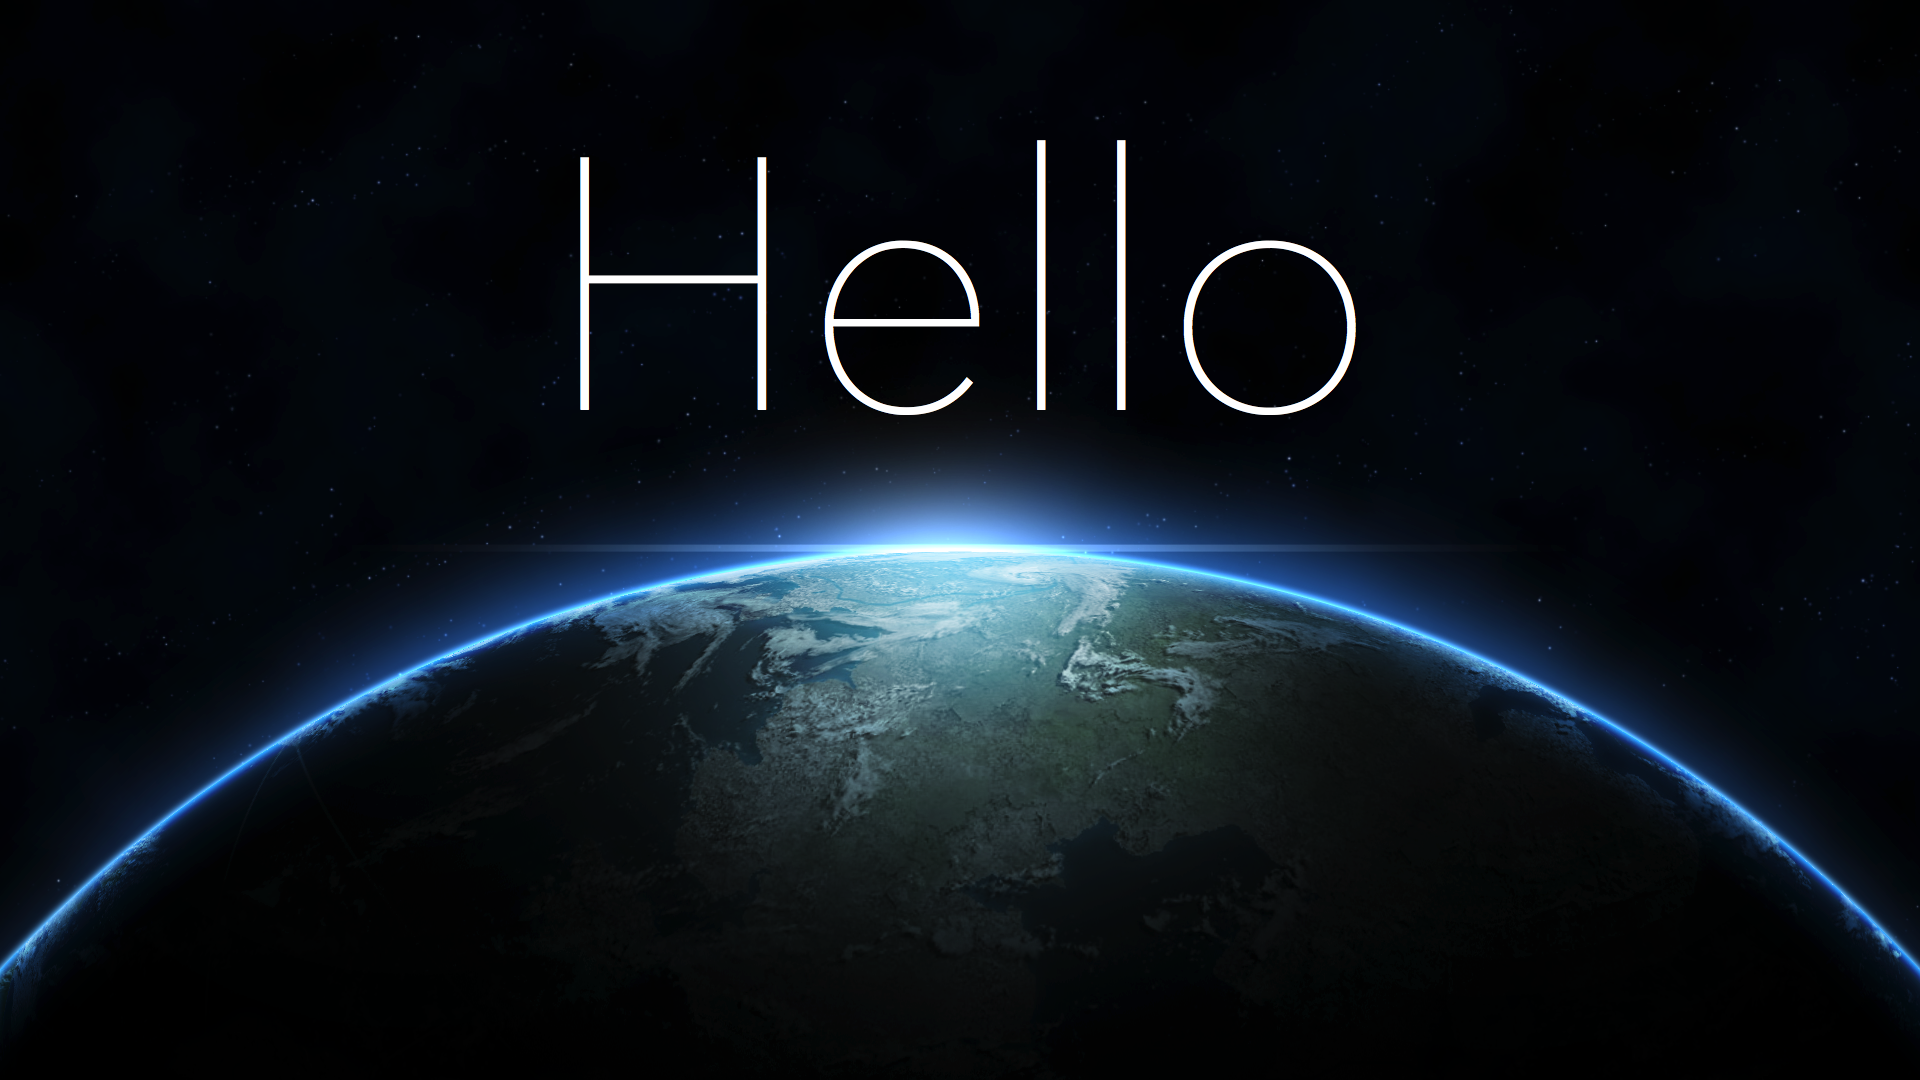
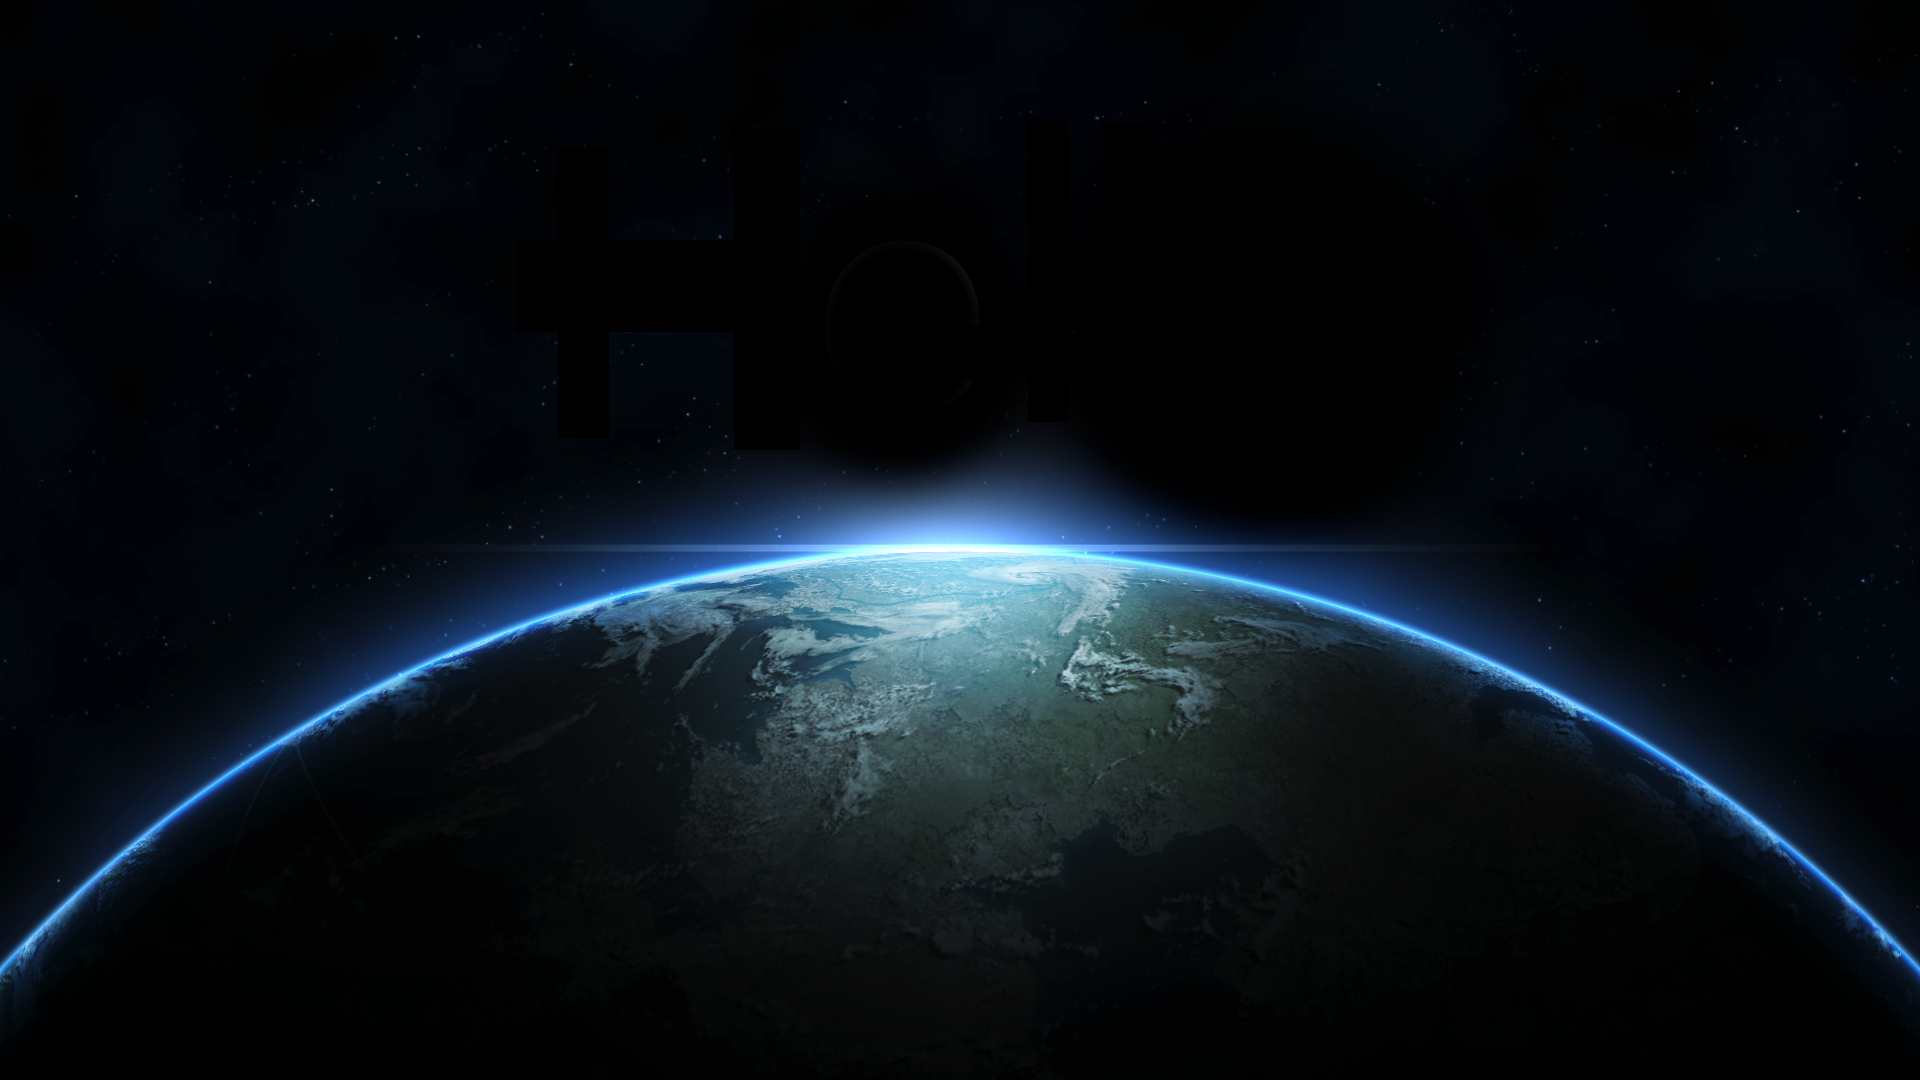
ok. una altra proposta

diff --git a/pagines/holamon.html b/pagines/holamon.html
@@ -1,19 +1,32 @@
 <!DOCTYPE html>
 <html lang="charset">
+
 <head>
     <meta charset="UTF-8">
     <meta name="viewport" content="width=device-width, initial-scale=1.0">
     <title>Hola Món</title>
+    <style>
+        header,
+        footer {
+            color: white;
+            text-align: left;
+        }
+
+        h1,
+        p,
+        a {
+            color: white;
+            text-align: center;
+        }
+    </style>
 </head>
-<body>
+
+<body background="../imatges/hello_world.png">
+    <header>PrevaWeb: una web de prova.</header>
     <h1>Hola Món!</h1>
-
-
-
-
-
-
     <p>Si això va bé ja haurem complerta la tradició de fer un Hola Món!</p>
     <p>En aquest cas hem fet un hola món usant html ;-)</p>
+    <footer><a href="../index.html">home</a></footer>
 </body>
+
 </html>

diff --git a/index.html b/index.html
@@ -8,9 +8,9 @@
 </head>
 
 <body>
+    <header>PrevaWeb: una web de prova.</header>
     <h1>Prova Web</h1>
     <p>Primera web que feim amb l'objectiu de generar una bona estructura de directoris i fitxers dins la carpeta de la web. També mirarem que els documents html tenguin una bona estructura interna.</p>
-    
     <br>
     <br>
     <img src="./imatges/hello_world.png" width="50px" height="50px">
@@ -22,6 +22,7 @@
     <img src="./imatges/rellotge.webp" width="50px" height="50px">
     <br>
     <a href="./pagines/rellotge.html">Rellotge</a>
+    <footer><a href="../index.html">home</a></footer>
 </body>
 
 </html>

diff --git a/pagines/rellotge.html b/pagines/rellotge.html
@@ -38,8 +38,10 @@
 </head>
 
 <body onload="startTime()">
+    <header>PrevaWeb: una web de prova.</header>
     <h1> Rellotge Aplicacions Web </h1>
     <div id="txt"></div>
+    <footer><a href="../index.html">home</a></footer>
 </body>
 
 </html>
